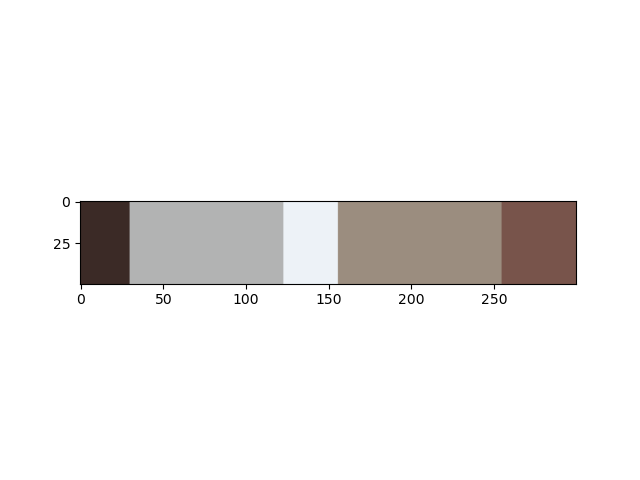
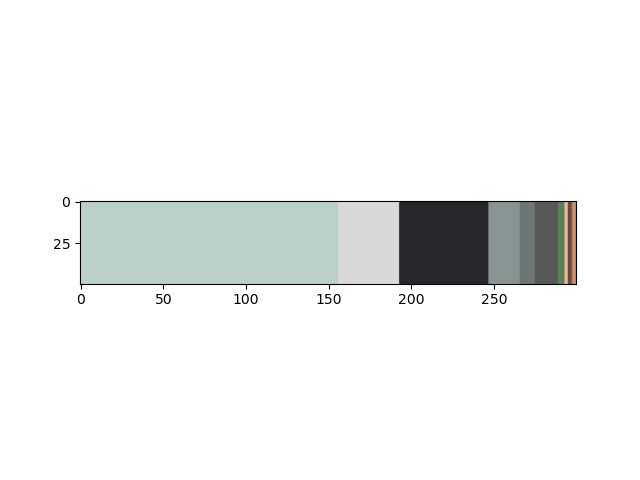
mean shift code added into mycode.py

Changed region(s): [[0.125, 0.4062, 0.9062, 0.5938]]

diff --git a/upload/mycode.py b/upload/mycode.py
@@ -1,8 +1,10 @@
+#backend.py 역할
+
 import matplotlib.pyplot as plt
 import matplotlib.image as mpimg
 import numpy as np
 import cv2
-from sklearn.cluster import KMeans
+from sklearn.cluster import KMeans, MeanShift, estimate_bandwidth
 from PIL import Image
 import colorsys
 import os
@@ -13,12 +15,26 @@ class GetImageColor():
     def __init__(self,imgurl): 
         self.imgurl = imgurl
         print(self.imgurl)
-
-    def getClt(self):
+    
+    #이미지 로드, 전처리
+    def preprocess_image(self):
+        #load image
         image = cv2.imread(os.path.join("."+self.imgurl))
-        print(self.imgurl)
+        # resize (비율은 유지하면서 픽셀수는 128*128 로)
+        scale_percent = (image.shape[0] * image.shape[1]) / (128*128) # percent of original size
+        width = int(image.shape[1] / np.sqrt(scale_percent))
+        height = int(image.shape[0] / np.sqrt(scale_percent))
+        dim = (width, height) #비율 유지 모드
+        image = cv2.resize(image, dim, interpolation = cv2.INTER_AREA)
+        #rgb mode
         image = cv2.cvtColor(image, cv2.COLOR_BGR2RGB)
+        #reshape
         image = image.reshape((image.shape[0] * image.shape[1], 3)) # height, width 통합
+        return image
+
+    #Kmeans clustering
+    def get_kmeans(self):
+        image = self.preprocess_image()
 
         #5개의 대표 색상 추출
         k = 5
@@ -27,6 +43,28 @@ class GetImageColor():
         # print(image.shape)
         self.centeroid_histogram(clt)
         return clt
+    
+    # MeanShift Clustering
+    def get_meanshift(self):
+        image = self.preprocess_image()
+
+        bandwidth = estimate_bandwidth(image, quantile=0.1, n_samples=200) #128*128에 이 파라미터가 적절한듯(조정)
+        print(bandwidth)
+        ms = MeanShift(bandwidth=bandwidth, bin_seeding=True)
+        ms.fit(image)
+        
+        self.centeroid_histogram(ms)
+        '''
+        self.labels = ms.labels_
+        self.cluster_centers = ms.cluster_centers_
+
+        self.labels_unique = np.unique(self.labels)
+        self.n_clusters_ = len(self.labels_unique)
+
+        print("number of estimated clusters : %d" % self.n_clusters_)
+        '''
+        return ms
+    
 
     def centeroid_histogram(self,clt):
         numLabels = np.arange(0, len(np.unique(clt.labels_)) + 1)
@@ -50,6 +88,7 @@ class GetImageColor():
         plt.savefig('./media/images/tempplot.png')
         return bar
 
+
 class Recommendation():
     def __init__(self,clt,df):
         self.clt = clt
@@ -62,7 +101,7 @@ class Recommendation():
         v *= 100
         return h, s, v
 
-    def recommend(self): #getClt의 output
+    def recommend(self): #getKmeans의 output
         df = self.df
         keyDict = {'title','imageurl'}
         df_analog = dict([(key, []) for key in keyDict])
@@ -161,59 +200,3 @@ class Recommendation():
                 # print('mono',idx)
         return roomcolor_analog, roomcolor_compl, roomcolor_mono
     
-    # def analog_result(self,df_analog,df_compl,df_mono):
-    #     df = self.df
-    #     analog_img_bytes = []
-    #     print("유사색 출력 갯수 : ", len(df_analog['title']))
-    #     print("유사색의 명화 추천 : ")
-    #     for i in range(0,len(df_analog)):
-    #         try:
-    #             title = df_analog[i]['title'] 
-    #             imageurl = df_analog[i]['imageurl'] 
-    #             print('title:',title,'imageurl: ',imageurl)
-    #             response = requests.get(imageurl)
-    #             image_bytes = BytesIO(response.content)
-    #             analog_img_bytes.append(image_bytes)
-    #             img = Image.open(image_bytes)
-    #             img.show()
-    #         except:
-    #             None
-    #     print("="*50)
-    #     return analog_img_bytes
-
-    # def compl_result(self,df_compl):
-    #     df = self.df
-    #     compl_img_bytes = []
-    #     print("\n보색의 명화 추천 : ")
-    #     for i in range(0,len(df_compl)):
-    #         try:
-    #             title = df_compl[i]['title'] 
-    #             imageurl = df_compl[i]['imageurl'] 
-    #             print('title:',title,'imageurl: ',imageurl)
-    #             response = requests.get(imageurl)
-    #             image_bytes = BytesIO(response.content)
-    #             compl_img_bytes.append(image_bytes)
-    #             # img = Image.open(compl_img_bytes)
-    #             # img.show()
-    #         except:
-    #             None
-    #     print("="*50)
-    #     return compl_img_bytes
-
-    # def mono_result(self,df_mono):
-    #     df = self.df
-    #     mono_img_bytes = []
-    #     print("\n단색의 명화 추천 : ")
-    #     for i in range(0,len(df_mono)):
-    #         try:
-    #             title = df_mono[i]['title'] 
-    #             imageurl = df_mono[i]['imageurl'] 
-    #             print('title:',title,'imageurl: ',imageurl)
-    #             response = requests.get(imageurl)
-    #             image_bytes = BytesIO(response.content)
-    #             mono_img_bytes.append(image_bytes)
-    #             # img = Image.open(mono_img_bytes)
-    #             # img.show()
-    #         except:
-    #             None
-    #     return mono_img_bytes

diff --git a/upload/views.py b/upload/views.py
@@ -1,3 +1,5 @@
+#app.py 역할
+
 from django.shortcuts import render
 # from django.contrib.auth.decorators import login_required #보안강화
 from django.shortcuts import render, get_object_or_404, redirect
@@ -33,17 +35,19 @@ def img_upload(request):
 def img_kmeans(request,pk):
     img_obj = get_object_or_404(Image,pk=pk) #방금 업로드한 이미지
     GetImageColor(img_obj.image.url)
-    return render(request,'upload/img_kmeans.html',{'img_obj':img_obj,'color_info':'../../media/images/tempplot.png'})
+    return render(request,'upload/img_kmeans.html',{'img_obj':img_obj,'color_info':'/media/images/tempplot.png'})
 
 def comp_result(request,pk):
     image_uploaded = get_object_or_404(Image,pk=pk) #방금 업로드한 이미지의 pk에 맞는애의 name
     df = CrawlingData.objects.all()
 
     temp1 = GetImageColor(image_uploaded.image.url)
-    clt = temp1.getClt() #room color clt
+    
+    #clt = temp1.get_kmeans() #room color clt with kmeans
+    clt = temp1.get_meanshift() #room color clt with meanshift
     
     temp2 = Recommendation(clt,df)
     analog,comp,mono = temp2.recommend() #recommended images list
     # analog_imgs = temp2.analog_result(analog,comp,mono) #show recommended images
-    return render(request,'upload/comp_result.html',{'img_info':image_uploaded,'color_info':'../../media/images/tempplot.png','analog':analog,'comp':comp,'mono':mono,
+    return render(request,'upload/comp_result.html',{'img_info':image_uploaded,'color_info':'/media/images/tempplot.png','analog':analog,'comp':comp,'mono':mono,
                             'analogimg':analog['imageurl'],'compimg':comp['imageurl'],'monoimg':mono['imageurl']})
